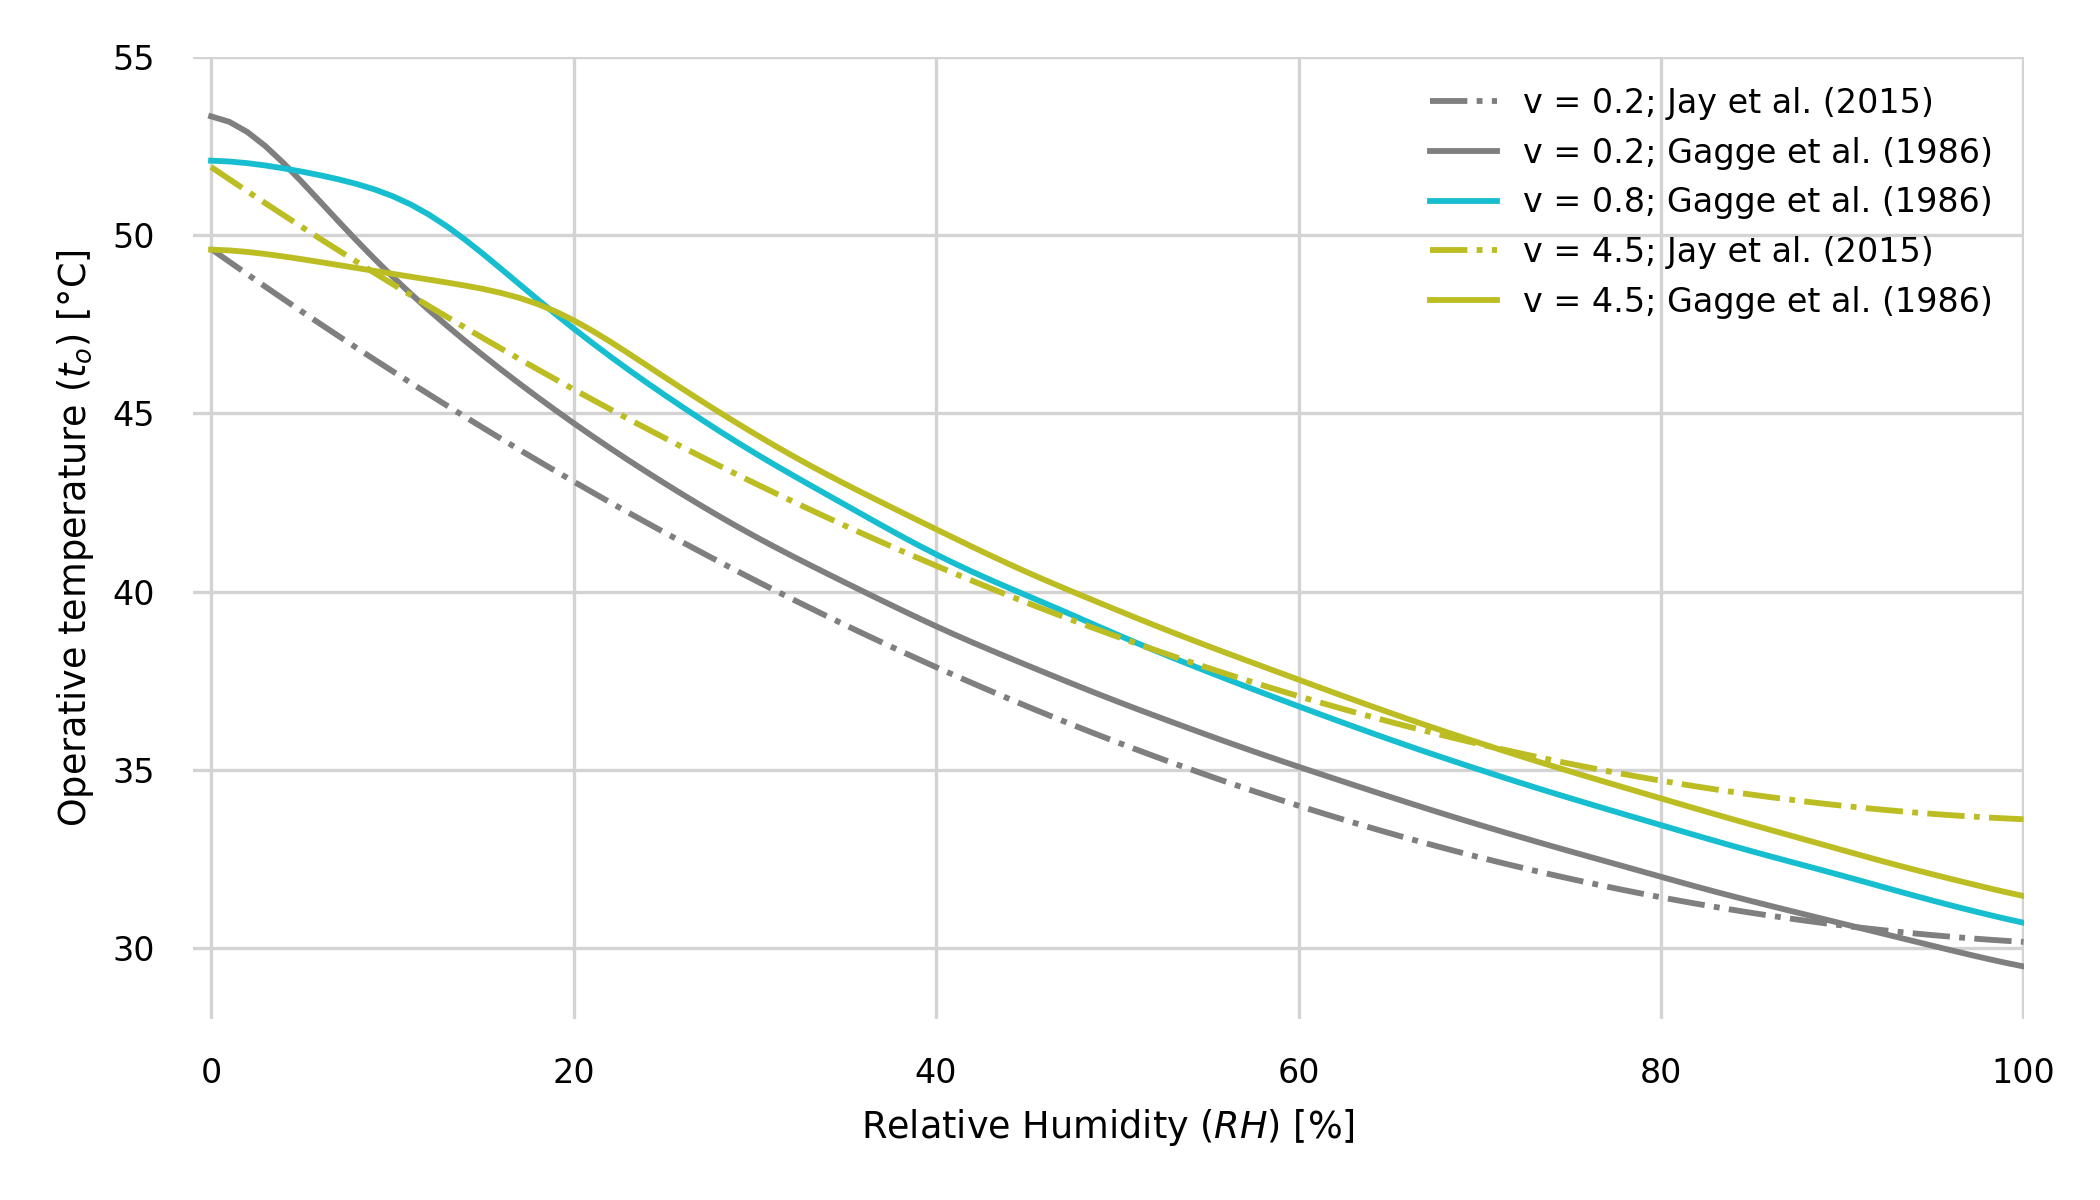
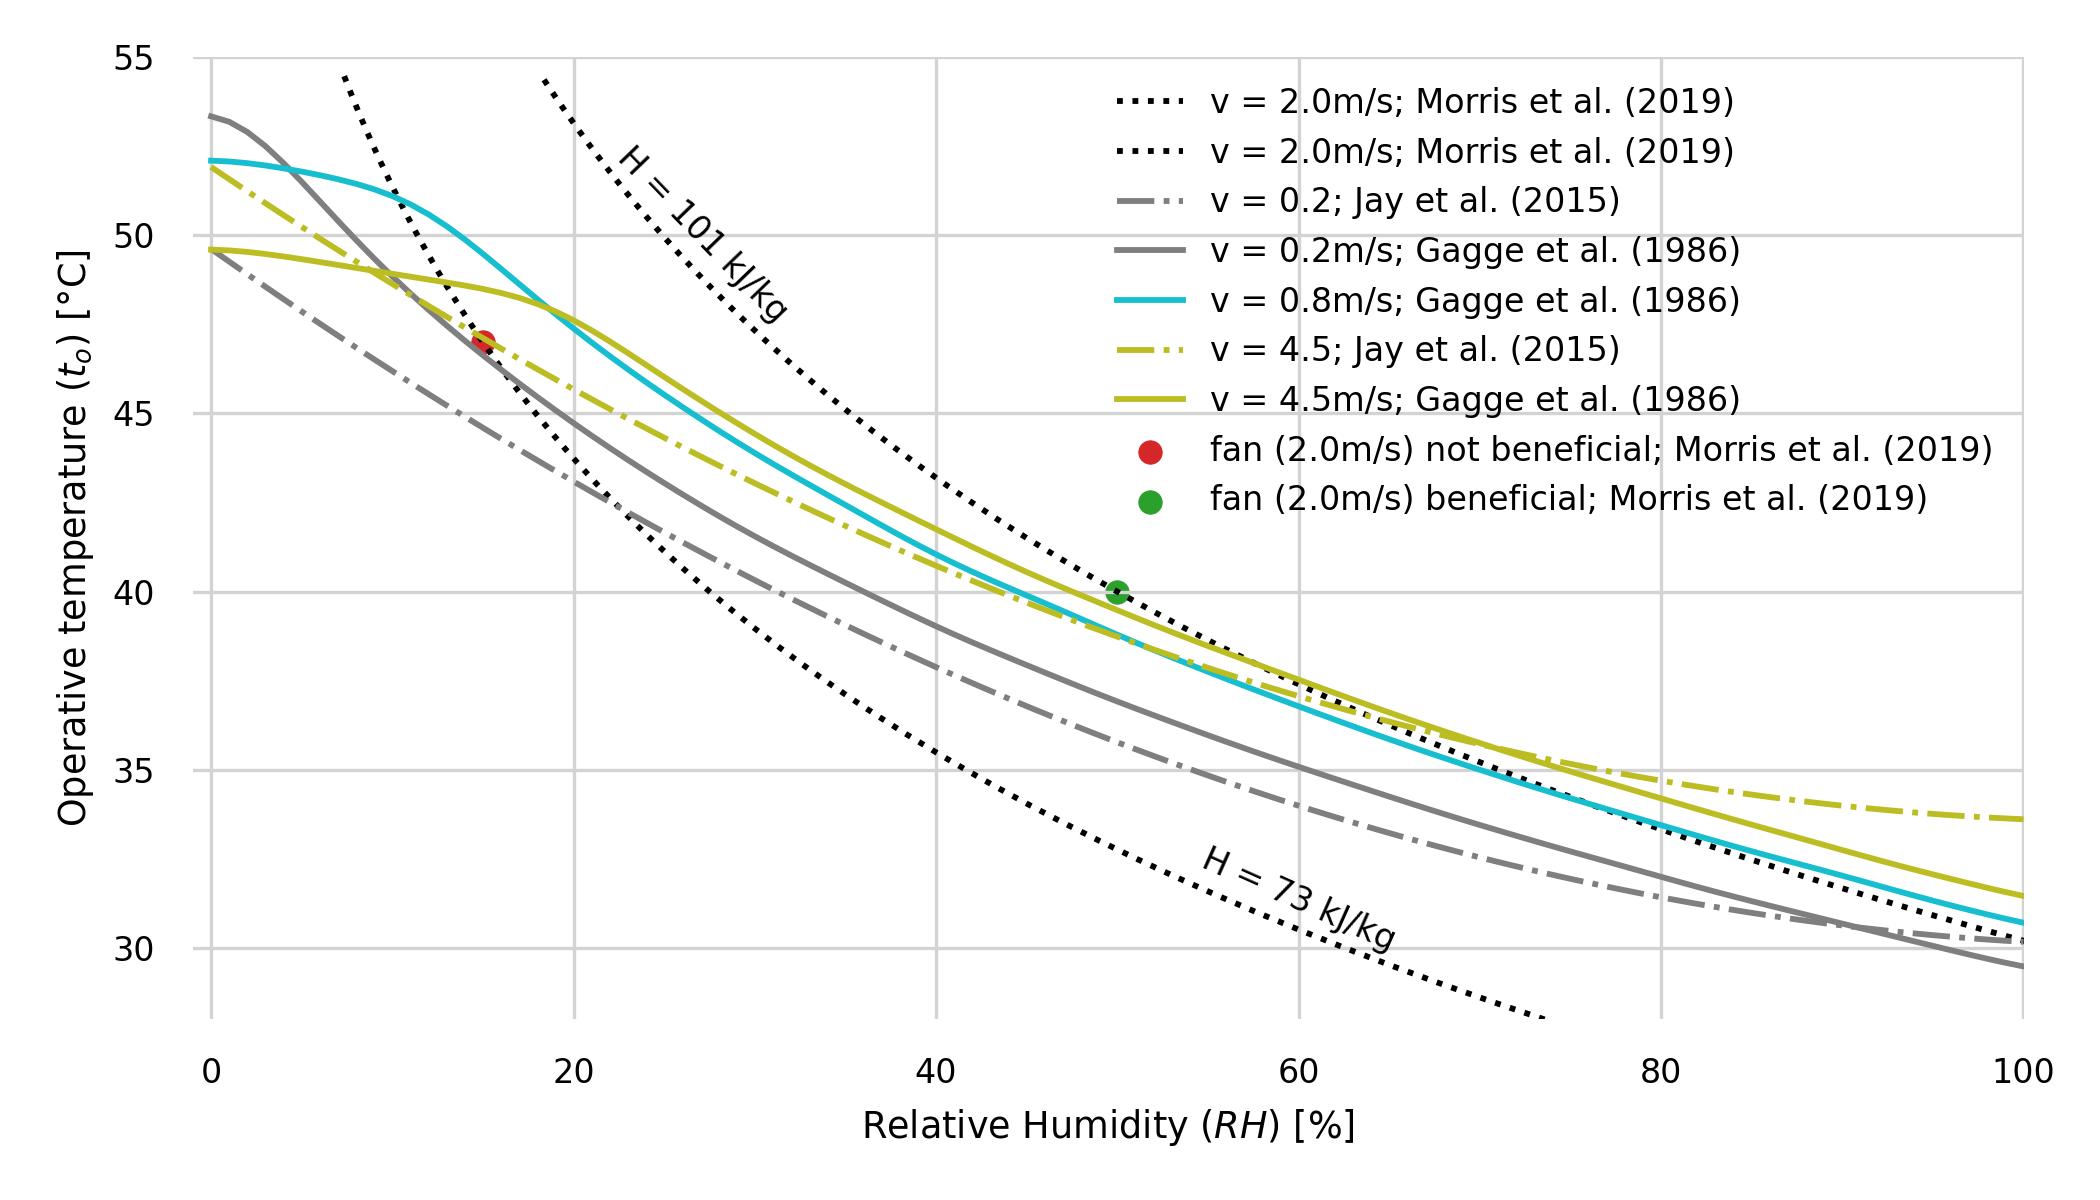
* reviewed results and methodology * fixed error in calculation comparison_air_speed

diff --git a/manuscript/src/sections/results.tex b/manuscript/src/sections/results.tex
@@ -7,38 +7,36 @@
 The sensible heat losses from the skin to the environment are proportional to the difference between the \ac{t-sk} and \ac{t-op}, as shown in Equation~\ref{eq:c-r}.
 Consequently, for values of \ac{t-op} higher than \ac{t-sk} the body start gaining sensible heat from its environment and the term \ac{c-r} becomes negative.
 Figure~\ref{fig:comparison_models}A shows how the sensible heat losses estimated with the \mycite{GaggeSET} and the \mycite{Jay2015} models vary as a function of \ac{t-op}, \ac{rh}, and \ac{v}.
-The former model iteratively determines \ac{t-sk}, while the latter assumes it to be constant and equal to 35~$^{\circ}$C.
-This explains the difference in \ac{c-r} determined by the two models.
-An increase in \ac{t-sk} also elevates the vapor pressure gradient between the skin and the surrounding environment~\cite{VanSomeren2011}.
-For \ac{t-op} higher than those at which \ac{w-max} occurs (Figure~\ref{fig:comparison_models}B), our model estimates that heat energy gets stored in the body and consequently \ac{t-sk} increases, as shown in Figure~\ref{fig:results_model_2}C\@.
+The former model iteratively determines \ac{t-sk}, while the latter assumes it to be constant and equal to 35~$^{\circ}$C\@.
+For \ac{t-op} higher than those at which \ac{w-max} occurs (Figure~\ref{fig:comparison_models}B), the former model estimates that heat energy gets stored in the body and consequently \ac{t-sk} increases, as shown in Figure~\ref{fig:results_model_2}C\@.
 This reduces the rate at which sensible heat gains increase.
+
 The values of \ac{w} and the respective values of \ac{w-max} for two air speeds are shown in Figure~\ref{fig:comparison_models}B\@.
 It can be observed that the critical operative temperature at which \ac{w} equals \ac{w-max} is a inversely proportional to the value of \ac{rh}.
 
 \begin{figure}[thb!]
     \centering
     \includegraphics[width=\textwidth]{figures/comparison_models_v2.png}
-    \caption{Shows how the results obtained with the the energy models proposed by \mycite{Jay2015} and \mycite{GaggeSET} vary as a function of the \ac{t-op}.
-    Each Figure shows the results obtained using a combination of two values of \ac{rh} and \ac{v}.
-    Figure A - sensible heat losses from the skin vary.
+    \caption{Results obtained with the the energy models proposed by \mycite{Jay2015} and \mycite{GaggeSET}.
+    Each Figure shows how each parameter varies as a function of \ac{t-op} for a combination of two values of \ac{rh} and \ac{v}.
+    Figure A - sensible heat losses from the skin.
     Figure B - skin wettendess.
     Figure C - Maximum latent heat loss estimated using \ac{w} = \ac{w-max}.
     Figure D - Sweat rate.}
     \label{fig:comparison_models}
 \end{figure}
 
-The negative effect that an increase in \ac{v} has on the sensible heat gains is, however, compensated by a greater increase in the \acf{e-sk} that the body can dissipate towards the surrounding environment.
+The negative effect that an increase in \ac{v} has on the sensible heat gains is compensated by a greater increase in the \acf{e-sk} that the body can dissipate towards the surrounding environment.
 For example, when \ac{t-op}~=~45~$^{\circ}$C and \ac{rh}~=~30~\%, an increase in \ac{v} from 0.2 to 4.5~m/s increases the sensible heat gains (\acs{c-r}) by 29 W/m\textsuperscript{2} while increasing \ac{e-sk} by 45~W/m\textsuperscript{2}, hence, increasing \ac{v} has a net positive effect.
 Figure~\ref{fig:comparison_models}C shows the values of \ac{e-max} estimated by replacing \ac{w} in Equation~\ref{eq:latent-skin} with \ac{w-max}.
 The value of \ac{e-max} decreases as the \ac{t-op} increases since \ac{p-a} grows more rapidly than \ac{p-sk}.
 For a set combination of \ac{v} and \ac{t-op} the value of \ac{e-max} decreases as the value of \ac{rh} increases since humid air has a higher \ac{p-a} than dry air.
-The reduction in \ac{e-max} estimated by our model is lower than the one estimated by \mycite{Jay2015} since we do not assume \ac{t-sk} to be constant.
+The reduction in \ac{e-max} estimated by our model is lower than the one estimated by \mycite{Jay2015} since an increase in \ac{t-sk} elevates the vapor pressure gradient between the skin and the surrounding environment~\cite{VanSomeren2011}.
 
 The value of \ac{m-sweat} is shown in Figure~\ref{fig:comparison_models}D\@.
 The difference between the results obtained with the two heat balance models can be attributed to the fact that \citeauthor{Jay2015} calculate the value of \ac{m-sweat} as a function of the required latent energy that the body should in theory dissipate to achieve thermal neutrality.
-Hence it comprises both regulatory sweating and water loss through skin diffusion.
-On the other hand, \citeauthor{GaggeSET} calculate the value of \ac{m-sweat} as a function of regulatory signals and they assume that \ac{m-sweat} cannot exceed 500~mL/h, and it does not accounts for water loss through skin diffusion.
-\citeauthor{GaggeSET} also do not account for water losses through skin diffusion.
+On the other hand, \citeauthor{GaggeSET} calculate the value of \ac{m-sweat} as a function of regulatory signals and they assume that \ac{m-sweat} cannot exceed 500~mL/h.
+% todo check this since it does not convince me
 
 \begin{figure}[thb!]
     \centering
@@ -48,22 +46,29 @@ On the other hand, \citeauthor{GaggeSET} calculate the value of \ac{m-sweat} as 
 \end{figure}
 
 The estimated values of excess heat stored in the human body, \ac{t-sk}, and \ac{t-cr} are shown in Figure~\ref{fig:results_model_2}A, ~\ref{fig:results_model_2}C, and ~\ref{fig:results_model_2}D, respectively.
-As soon as the body cannot longer dissipate exogenous and endogenous heat gains, the excess heat gets stored in the human body and both \ac{t-sk} and \ac{t-cr} rise.
-The \ac{t-op} at which \ac{t-cr} with elevated air speed exceeds the value of \ac{t-cr} for the `still air' condition is when the use of air movement becomes detrimental.
-While, when the energy stored becomes greater than zero is the conditions which demarcates when heat strain would start to occur.
+When the body cannot longer dissipate exogenous and endogenous heat gains, the excess heat gets stored in the human body and both \ac{t-sk} and \ac{t-cr} rise.
 
-The combination of \ac{t-op}, \ac{rh}, and \ac{v} at which heat strain would start to occur since the body is no longer able to dissipate all the heat gains are presented in Figure~\ref{fig:comparison_air_speed}.
-The Figure shows the results obtained with the \mycite{GaggeSET} and the \mycite{Jay2015} models.
+The combination of \ac{t-op}, \ac{rh}, and \ac{v} at which heat strain would start to occur is presented in Figure~\ref{fig:comparison_air_speed}.
+The Figure shows the results obtained with both the \mycite{GaggeSET} and the \mycite{Jay2015} models.
+In addition, we are presenting the results obtained by \mycite{Morris2019}.
+In particular, from the latter study we are presenting both the conditions in which fans (\ac{v}~=~2.0~m/s) were found to be beneficial and not, using a green and red dot, respectively.
+The black dashed lines are isoenthalpic lines.
+From Figure~\ref{fig:comparison_air_speed} it can be observed that if electric fans are used in hot and dry conditions heat strain would occur at relative low enthalpy values.
+This can be explained by the fact that the value of skin blood flow increases proportionally to the value of \ac{v}, hence, it reaches its maximum value for lower values of \ac{t-db} as \ac{v} increases.
+Our model, slightly underestimates this effect since based on our results fans (\ac{v}~=~4/5~m/s) should in `theory' not be used for \ac{rh} lower than 10~\% and \ac{t-db} higher than 49~$^{\circ}$C\@, which is where the gray solid line intercepts the yellow line.
+It should, however, be noted that, as previously mentioned in the Introduction Section, the hot and dry condition has a lower enthalpy than the hot and humid one, hence, evaporative cooling technologies can be used to reduce \ac{t-db} and simultaneously increase \ac{rh} to ensure the indoor conditions would not cause heat strain.
+The simplest solution of achieving this is to place wet towels near the electric fan.
 
 \begin{figure}[thb!]
     \centering
     \includegraphics[width=\textwidth]{figures/comparison_air_speed.png}
-    \caption{Compares the results between the SET model and Ollie's model.
-    Each line demarcates point above which the body cannot longer dissipate all the endogenous and exogenous heat gains, hence the extra energy gets stored in the body and it causes the \acf{t-cr} to increase.}
+    \caption{Compares the results between the \mycite{GaggeSET} and the \mycite{Jay2015} models.
+    The solid and dash dotted lines demarcate the point above which heat stress is expected to occur.
+    The dashed lines are isoenthalpic lines, which show the enthalpy of the two conditions studied by \mycite{Morris2019}}
     \label{fig:comparison_air_speed}
 \end{figure}
 
-It should be noted that the limit presented in Figure~\ref{fig:comparison_air_speed} is not the limit above which an increase in \ac{v} is no longer beneficial.
+The limits presented in Figure~\ref{fig:comparison_air_speed} are not the limits above which an increase in \ac{v} is no longer beneficial.
 Each line demarcates the region in which thermal stress is estimated to occur and not all individuals would be able to compensate for endogenous and exogenous heat gains.
 For a specific value of \ac{v}, the maximum \ac{t-op} at which cardiovascular strain is estimated to occur decreases as the value of \ac{rh} increases.
 In addition, it can be observed that for a specific value of \ac{rh}, as the value of \ac{v} increases the overall increase in the maximum critical temperature rapidly decreases.
@@ -89,7 +94,7 @@ From Figure~\ref{fig:energy_storage_delta} it can be observed the area in which 
 In addition, for a specific value of \ac{rh}, as the value of \ac{v} increases the critical temperature at which thermal strain would occur also increases, however, at the same time the temperature above which fans should not be used also decreases by a greater amount.
 Based on the climate data obtained from the 2017 ASHRAE Handbook--Fundamentals we estimated that in approximately 67~\% of the locations thermal strain should not occur even without air movement, however, this number increases to 87~\% and 92~\% when \ac{v} is increased to 0.8~m/s and 4.5~m/s, respectively.
 The use of fans would still be beneficial in the great majority of the locations worldwide.
-With the exception of only two locations where the use of \ac{v} higher than 0.8~m/s would be detrimental for the human body.
+With the exception of 23 locations where the use of \ac{v} higher than 0.8~m/s would be detrimental for the human body, and 7 locations where no air elevated air movement should be used.
 
 % https://advances.sciencemag.org/content/6/19/eaaw1838
 

diff --git a/manuscript/src/sections/methodology.tex b/manuscript/src/sections/methodology.tex
@@ -8,12 +8,12 @@
 In this manuscript, we used the heat balance model that \mycite{GaggeSET} developed to derive the \ac{set} to determine when the use of elevated air moment (e.g., \ac{v} $>$ 0.2 m/s) would be beneficial to cool the human body.
 The heat balance model allows us to estimate how environmental (i.e., \ac{t-db}, \ac{t-r}, \ac{v}, \ac{rh}) and personal factors (i.e., \ac{clo}, \ac{met}) influence both latent and sensible components of the \ac{q-sk}, and the \ac{q-res}.
 Moreover, it can be used to estimate the value of some physiological variables such as, \ac{t-sk}, and \ac{t-cr}.
-It should be noted that \ac{v} is the average value of three air speeds measured at different heights over a period of at least three minutes.
+It should be noted that \ac{t-db} and \ac{v} are the average values measured at different heights over a period of at least three minutes.
 These heights are 0.1, 0.6 and 1.1 m for seated people and 0.1, 1.1 and 1.7 m for standing occupants~\cite{ashrae552017}.
 
 Section~\ref{subsec:energy-balance} describe the main Equations used by the model to derive the results.
-We have published the algorithm we used to calculate the results in a public repository.
-% todo add link to repository
+The algorithm we used to calculate the results can be found in the Appendix.
+% todo add code to appendix
 Moreover, we added it to the pythermalcomfort Python package~\cite{Tartarini2020a} and the CBE thermal comfort tool~\cite{Tartarini2020}.
 The former can be used by Python users to calculate the results presented in this manuscript.
 The latter is a web-based tool that can be used to generate interactive figures which show the environmental conditions under which the use of elevated air speeds is beneficial.
@@ -106,27 +106,24 @@ The value of \ac{q-res} is can be determined using the following simplified equa
 \subsection{Data Analysis}\label{subsec:data-analysis}
 
 The heat balance model was used to estimate the sensible and latent heat loss and physiological parameters (e.g., \ac{m-sweat}, \ac{t-cr}).
-We calculated the results for \ac{t-op} ranging from 28 and 55~$^{\circ}$C at 0.5~$^{\circ}$C intervals, \ac{rh} ranging from 0 to 100~\% at 5~\% intervals and for the discrete values of \ac{v} = 0.2, 0.8 and 4.5~m/s.
+We calculated the results for \ac{t-op} ranging from 28 to 55~$^{\circ}$C at 0.5~$^{\circ}$C intervals, \ac{rh} ranging from 0 to 100~\% at 5~\% intervals and for the discrete values of \ac{v} = 0.2, 0.8 and 4.5~m/s.
 In this paper we will be referring to `still air' condition when air velocities are below \ac{v}~=~0.2 m/s.
-This definition is in accordance with the ASHRAE 55--2017 Standard~\cite{ashrae552017} and allowed us to compare our results with~\mycite{Jay2015}.
+This definition is in accordance with the ASHRAE 55--2017 Standard~\cite{ashrae552017} and allowed us to compare our results with those obtained by \mycite{Jay2015}.
 We assumed \ac{t-r} to be equal to \ac{t-db}, \ac{clo}~=~0.5 clo, and \ac{met}~=~1.0 met, unless otherwise specified.
-It could be argued that some people during heatwaves may be wearing less clothes than what we assumed, hence, a value of \ac{clo} equal to 0.36 clo (i.e., walking shorts, short-sleeve shirt and sandals) would be more appropriate, however, we wanted to report more conservative results.
+It could be argued that some people during heatwaves may be wearing less clothes than that, hence, a value of \ac{clo} equal to 0.36 clo (i.e., walking shorts, short-sleeve shirt and sandals) would be more appropriate, however, we wanted to use a more conservative value.
 Moreover, results for different combinations of environmental and personal conditions can be generated using our online tool.
 We reported heat loss per unit of surface area (i.e., \ac{e-sk}).
 To obtain the absolute value of heat loss or gain the results can be multiplied by \ac{body-a}.
-Thermal stress was assumed to occur when \ac{w} (which only depends on the value of \ac{v}) reaches its maximum value \ac{w-max}.
+Thermal stress was assumed to occur when either of the following parameters reached its maximum value \ac{w}, skin blood flow or \ac{m-sweat}.
 We assumed that the use of electrical fans is detrimental when the value of \ac{t-cr} calculated for values of \ac{v} higher than 0.2~m/s exceeds the value determined for the `still air' condition.
 
 \subsection{Weather data}\label{subsec:weather-data}
 
 The results obtained with the proposed heat balance model were compared with climatic data provided in the 2017 ASHRAE Handbook--Fundamentals~\cite{ASHRA2017}.
-We assumed that during heatwaves \ac{t-db} and \ac{rh} indoors would be equal to \ac{t-db} and \ac{rh} outdoors.
-Conditions indoors may, however, be slightly less severe than outdoors since the thermal mass would dump and shift peaks in outdoor temperature.
-On the other hand, if the house is not shaded \ac{t-r} may rise significantly and worsen conditions indoors.
 We used the ASHRAE climatic design dataset to extract information regarding the maximum extreme dry-bulb and wet-bulb temperatures recorded across more than 5000 stations worldwide with a 10 year return period.
 For more information about the ASHRAE climate design dataset please refer to Chapter 14 of the 2017 ASHRAE Handbook--Fundamentals~\cite{ASHRA2017}.
 Location of the stations and their respective maximum extreme dry-bulb temperatures are shown in Figure~\ref{fig:world-map}
-We did not show data from stations with a maximum temperature lower than 20~$^\circ$C\@.
+We did not show data from stations with a maximum temperature lower than 20~$^\circ$C\@ since we are only interested in assessing the benefit of using fans during hot days.
 
 \begin{figure}[thb!]
     \centering
@@ -136,6 +133,13 @@ We did not show data from stations with a maximum temperature lower than 20~$^\c
 \end{figure}
 
 Figure~\ref{fig:world-map} also shows that few data was available for the Sub-Saharan Africa where approximately 40~\% of the poorest people in the world reside and where climate change may be an acute threat~\cite{PovertyO1:online}.
+
+For each location we assumed that the worst condition would occur if both the maximum extreme dry-bulb and wet-bulb temperatures would have been recorded at the same time.
+This is an approximation and it is arguably overestimating the most extreme condition due to the fact that the likelihood that both conditions would occur at the same time is extremely low.
+However, we assumed this to be the most extreme heat event that could occur in each location.
+In addition, we assumed that during heatwaves \ac{t-db} and \ac{rh} indoors would be equal to \ac{t-db} and \ac{rh} outdoors.
+Conditions indoors may, however, be slightly less severe than outdoors since the thermal mass of the building would dump and shift peaks in outdoor temperature.
+On the other hand, if the house is not well shaded \ac{t-r} may rise significantly and worsen conditions indoors.
 
 \subsection{Elderly}
 
